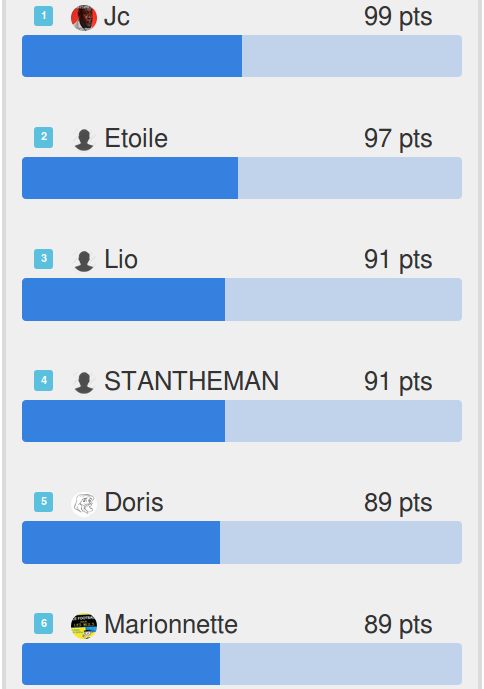
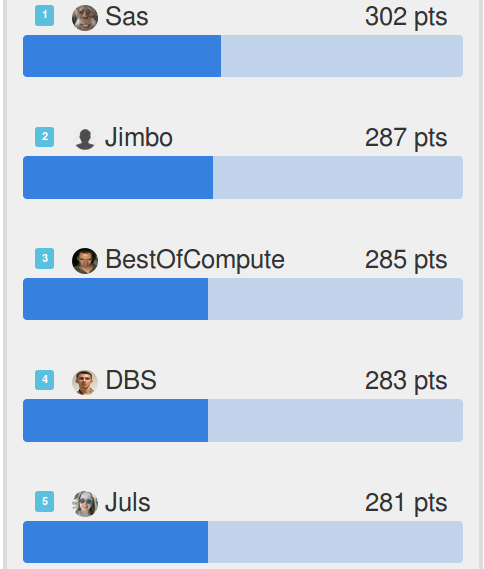
Merge branch 'master' of ssh://euroxxxvi-typhontonus.rhcloud.com/~/git/euroxxxvi

diff --git a/static/accueil3.html b/static/accueil3.html
@@ -10,12 +10,32 @@
 <div class="container-fluid" ng-controller="matchsCtrl" ng-init="getMatchsOfTheDay();" style="padding-left : 0px;">
     <div class="row-fluid" >
         <div class="col-xs-12" style="padding-left : 0px;">
-            <center><h2><span style="color:green"><b>LES PARIS DE LA FINALE SONT OUVERTS !!!</b></span></h2></center>
             <br/>
-            <span><marquee><h2><b>Games of the day</b></h2></marquee></span>
+            <span><marquee><h2><b>Compétition terminée</b></h2></marquee></span>
 
             <div ng-show="displayMatchsOfTheDay == false">
-                <center><h2>Rdv DIMANCHE pour la finale</h2><br/></center>
+                <div style="padding-left : 0px; font-size : 12px" class="col-md-offset-3 col-md-6">
+
+                    <table class="table table-condensed table-striped">
+                        <tbody>
+                        <tr>
+                            <td style="vertical-align:middle;text-align: center;">PORTUGAL</td>
+                            <td style="vertical-align:middle;text-align: right;"><span class="newflags POR"></span></td>
+                            <td style="vertical-align:middle;">
+                                <center>
+                                    <table>
+                                        <tr><td><input style="width:35px;text-align:center;" value="1" disabled></td>
+                                            <td><input style="width:35px;text-align:center;" value="0" disabled></td>
+                                        </tr>
+                                    </table>
+                                </center>
+                            <td style="vertical-align:middle;text-align: left;"><span class="newflags FRA"></span></td>
+                            <td style="vertical-align:middle;text-align: center;">FRANCE</td>
+                        </tr>
+                        </tbody>
+                    </table>
+
+                </div>
             </div>
 
             <div ng-show="displayMatchsOfTheDay == true" id="no-more-tables_a">
@@ -109,9 +129,28 @@
 <div class="container-fluid">
     <div class="row-fluid">
         <center><h1>TOP 5</h1></center>
-        <div class="col-sm-6 col-sm-offset-3">
+        <div class="col-sm-6">
             <center>
+                <h2>Individuel - Phase finale</h2>
                 <img class="img-focus-picture img-responsive" src="/static/img/pictures/TOP5.png" alt="">
+            </center>
+        </div>
+        <div class="col-sm-6">
+            <center>
+                <h2>Individuel - Général</h2>
+                <img class="img-focus-picture img-responsive" src="/static/img/pictures/TOP5_phase_finale.png" alt="">
+            </center>
+        </div>
+        <div class="col-sm-6">
+            <center>
+                <h2>Communautés - Phase finale</h2>
+                <img class="img-focus-picture img-responsive" src="/static/img/pictures/TOP_com.png" alt="">
+            </center>
+        </div>
+        <div class="col-sm-6">
+            <center>
+                <h2>Communautés - Général</h2>
+                <img class="img-focus-picture img-responsive" src="/static/img/pictures/TOP_com_phase_finale.png" alt="">
             </center>
         </div>
     </div>
